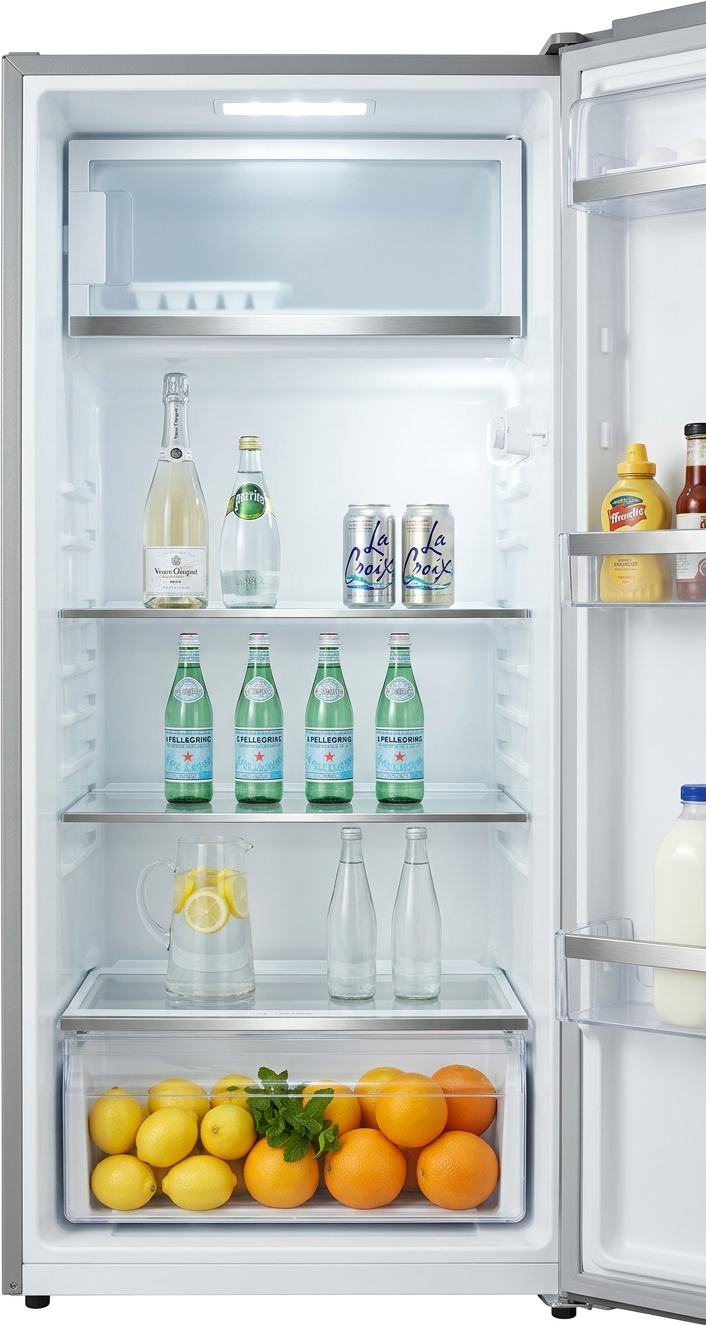
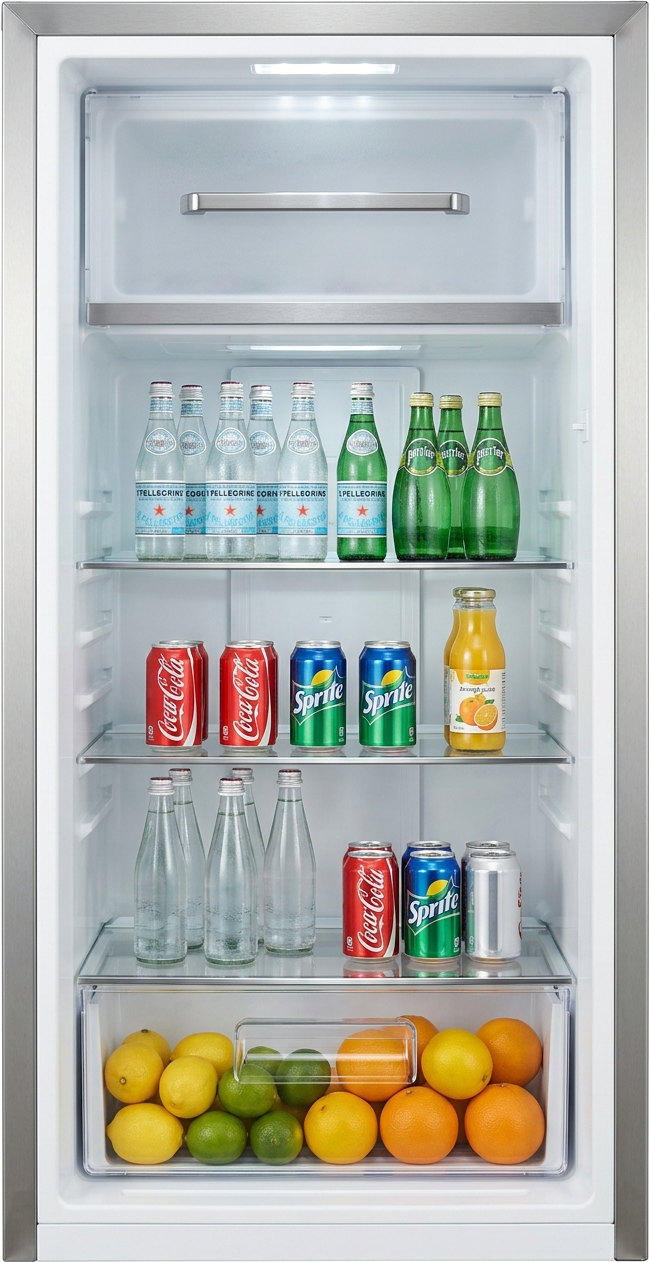
fix(fridge): generate brand new doorless interior cavity, crop door storage to inner face, add realistic dark steel side panels with chrome hinge, and eliminate open-door boundary cropping

diff --git a/src/components/fridge/UniversalSteelFridge.tsx b/src/components/fridge/UniversalSteelFridge.tsx
@@ -64,11 +64,11 @@ export const UniversalSteelFridge: React.FC<UniversalSteelFridgeProps> = ({
   }
 
   return (
-    <div className="w-full flex flex-col items-center select-none">
+    <div className="w-full flex flex-col items-center select-none overflow-visible">
       {/* 
         ========================================================================
         THE REFRIGERATOR 3D APPLIANCE STAGE
-        Completely isolated, photorealistic appliance with zero outer padding or capsules.
+        Isolated appliance with overflow-visible to guarantee the swinging door is never clipped.
         ========================================================================
       */}
       <div
@@ -79,12 +79,14 @@ export const UniversalSteelFridge: React.FC<UniversalSteelFridgeProps> = ({
           maxHeight: '780px',
           perspective: '1400px',
           transformStyle: 'preserve-3d',
+          overflow: 'visible',
         }}
-        className="relative mx-auto"
+        className="relative mx-auto overflow-visible"
       >
         {/* 
           3D Turntable Wrapper
-          Orbits smoothly around the Y-axis as controlled by the slider below
+          Orbits smoothly around the Y-axis as controlled by the slider below.
+          Shifts slightly right when the door opens to ensure the swinging door remains centered and uncropped.
         */}
         <div
           style={{
@@ -92,26 +94,45 @@ export const UniversalSteelFridge: React.FC<UniversalSteelFridgeProps> = ({
             height: '100%',
             position: 'relative',
             transformStyle: 'preserve-3d',
-            transform: `rotateY(${yaw}deg)`,
-            transition: 'transform 200ms cubic-bezier(0.2, 0.9, 0.3, 1)',
+            transform: `translateX(${isEffectiveOpen ? 30 : 0}px) rotateY(${yaw}deg)`,
+            transition: 'transform 500ms cubic-bezier(0.2, 0.9, 0.3, 1)',
+            overflow: 'visible',
           }}
         >
-          {/* 3D Left Cabinet Side Panel (revealed when rotating to the right) */}
+          {/* 3D Left Cabinet Side Panel (revealed when rotating to the right or opening door) */}
           <div
             style={{
               position: 'absolute',
               top: 0,
               bottom: 0,
               left: 0,
-              width: '70px',
+              width: '65px',
               transformOrigin: 'left center',
               transform: 'rotateY(-90deg)',
               backfaceVisibility: 'hidden',
               zIndex: 5,
             }}
-            className="rounded-l-lg border-l-2 border-slate-500 bg-gradient-to-r from-slate-700 via-slate-600 to-slate-500 shadow-2xl overflow-hidden pointer-events-none"
+            className="rounded-l-sm border-l border-slate-600 bg-gradient-to-r from-slate-800 via-slate-700 to-slate-800 shadow-2xl overflow-hidden pointer-events-none"
           >
-            <div className="absolute inset-0 bg-gradient-to-b from-white/10 via-transparent to-black/30 pointer-events-none" />
+            <div className="absolute inset-0 bg-gradient-to-b from-white/10 via-transparent to-black/40 pointer-events-none" />
+            <div className="absolute inset-0 bg-[linear-gradient(90deg,transparent_0%,rgba(255,255,255,0.05)_50%,transparent_100%)] pointer-events-none" />
+          </div>
+
+          {/* Top Heavy-Duty Chrome/Steel Hinge Bracket */}
+          <div
+            style={{
+              position: 'absolute',
+              top: '-5px',
+              left: '-2px',
+              width: '34px',
+              height: '11px',
+              transform: 'translateZ(10px)',
+              zIndex: 40,
+            }}
+            className="rounded-xs bg-gradient-to-r from-slate-700 via-slate-400 to-slate-700 border border-slate-400/80 shadow-md flex items-center justify-between px-1 pointer-events-none"
+          >
+            <div className="w-1.5 h-1.5 rounded-full bg-slate-900 shadow-inner" />
+            <div className="w-1.5 h-1.5 rounded-full bg-slate-400" />
           </div>
 
           {/* 3D Right Cabinet Side Panel (revealed when rotating to the left) */}
@@ -121,15 +142,15 @@ export const UniversalSteelFridge: React.FC<UniversalSteelFridgeProps> = ({
               top: 0,
               bottom: 0,
               right: 0,
-              width: '70px',
+              width: '65px',
               transformOrigin: 'right center',
               transform: 'rotateY(90deg)',
               backfaceVisibility: 'hidden',
               zIndex: 5,
             }}
-            className="rounded-r-lg border-r-2 border-slate-700 bg-gradient-to-l from-slate-800 via-slate-700 to-slate-600 shadow-2xl overflow-hidden pointer-events-none"
+            className="rounded-r-sm border-r border-slate-700 bg-gradient-to-l from-slate-900 via-slate-800 to-slate-700 shadow-2xl overflow-hidden pointer-events-none"
           >
-            <div className="absolute inset-0 bg-gradient-to-b from-white/10 via-transparent to-black/35 pointer-events-none" />
+            <div className="absolute inset-0 bg-gradient-to-b from-white/10 via-transparent to-black/45 pointer-events-none" />
           </div>
 
           {/* 3D Top Cabinet Roof */}
@@ -139,54 +160,47 @@ export const UniversalSteelFridge: React.FC<UniversalSteelFridgeProps> = ({
               top: 0,
               left: 0,
               right: 0,
-              height: '70px',
+              height: '65px',
               transformOrigin: 'center top',
               transform: 'rotateX(90deg)',
               backfaceVisibility: 'hidden',
               zIndex: 5,
             }}
-            className="rounded-t-lg border-t-2 border-slate-500 bg-gradient-to-b from-slate-600 via-slate-700 to-slate-800 shadow-inner overflow-hidden pointer-events-none"
+            className="rounded-t-sm border-t border-slate-600 bg-gradient-to-b from-slate-700 via-slate-800 to-slate-900 shadow-inner overflow-hidden pointer-events-none"
           />
 
           {/* 
             ========================================================================
             1. REFRIGERATOR INTERIOR CAVITY
-            Revealed inside the cabinet when the door swings open
+            Pure doorless symmetrical interior cavity photograph with tempered glass shelves,
+            chilled beverages, bottom citrus crisper drawer, and 5000K daylight LED.
             ========================================================================
           */}
           <div
             style={{
               position: 'absolute',
               inset: 0,
-              transform: 'translateZ(-10px)',
+              transform: 'translateZ(-6px)',
             }}
-            className="rounded-xl shadow-2xl overflow-hidden bg-slate-900 border border-slate-400"
+            className="rounded-lg shadow-2xl overflow-hidden bg-slate-900 border border-slate-500"
           >
-            {/* Photorealistic Interior Cavity Image */}
+            {/* Photorealistic Pure Cavity Image (No secondary doors!) */}
             <img
               src="/fridges/realistic-fridge-interior.png"
-              alt="Illuminated Refrigerator Interior"
-              className="absolute inset-0 w-full h-full object-cover pointer-events-none select-none rounded-xl"
+              alt="Illuminated Refrigerator Interior Cavity"
+              className="absolute inset-0 w-full h-full object-cover pointer-events-none select-none rounded-lg"
             />
 
-            {/* 
-              5000K DAYLIGHT LED INTERIOR LIGHTING
-              Turns ON when door opens, illuminates shelves and food items,
-              and turns OFF smoothly when door closes
-            */}
+            {/* 5000K Daylight LED Interior Lighting Engine */}
             <div
               className={`absolute inset-0 pointer-events-none transition-opacity duration-500 ease-in-out ${
                 isEffectiveOpen ? 'opacity-100' : 'opacity-0'
               }`}
             >
-              {/* Daylight Spotlight Beam */}
-              <div className="absolute top-0 inset-x-4 h-32 bg-gradient-to-b from-white/80 via-sky-100/25 to-transparent blur-xs pointer-events-none" />
-              
-              {/* Glass Shelf Specular Highlights */}
+              <div className="absolute top-0 inset-x-4 h-28 bg-gradient-to-b from-white/80 via-sky-100/20 to-transparent blur-xs pointer-events-none" />
               <div className="absolute top-[28%] inset-x-2 h-6 bg-gradient-to-b from-white/35 to-transparent pointer-events-none" />
               <div className="absolute top-[48%] inset-x-2 h-6 bg-gradient-to-b from-white/30 to-transparent pointer-events-none" />
-              
-              {/* Status Badge */}
+
               <div className="absolute top-3 left-3 px-2 py-0.5 rounded-md bg-slate-900/80 backdrop-blur-xs text-white border border-white/20 text-[8px] font-heading font-bold flex items-center gap-1 shadow-md">
                 <Lightbulb className="w-2.5 h-2.5 text-amber-300 fill-amber-300" />
                 <span>5000K LED ACTIVE</span>
@@ -206,7 +220,7 @@ export const UniversalSteelFridge: React.FC<UniversalSteelFridgeProps> = ({
               position: 'absolute',
               inset: 0,
               transformOrigin: 'left center',
-              transform: isEffectiveOpen ? 'rotateY(-85deg)' : 'rotateY(0deg)',
+              transform: isEffectiveOpen ? 'rotateY(-78deg)' : 'rotateY(0deg)',
               transition: 'transform 600ms cubic-bezier(0.25, 1, 0.4, 1)',
               transformStyle: 'preserve-3d',
               zIndex: 30,
@@ -224,7 +238,7 @@ export const UniversalSteelFridge: React.FC<UniversalSteelFridgeProps> = ({
                 transform: 'translateZ(8px)',
                 backfaceVisibility: 'hidden',
               }}
-              className="rounded-xl shadow-2xl overflow-hidden bg-slate-200 border border-slate-400 cursor-pointer"
+              className="rounded-lg shadow-2xl overflow-hidden bg-slate-200 border border-slate-400 cursor-pointer"
               onClick={handleToggle}
               title={isEffectiveOpen ? 'Click door to close' : 'Click door to open'}
             >
@@ -232,11 +246,11 @@ export const UniversalSteelFridge: React.FC<UniversalSteelFridgeProps> = ({
               <img
                 src="/fridges/premium-steel-door-closed.png"
                 alt="Stainless Steel Refrigerator Door"
-                className="absolute inset-0 w-full h-full object-cover pointer-events-none select-none rounded-xl"
+                className="absolute inset-0 w-full h-full object-cover pointer-events-none select-none rounded-lg"
               />
 
               {/* Ambient Specular Highlight Sheen */}
-              <div className="absolute inset-0 pointer-events-none rounded-xl bg-gradient-to-tr from-transparent via-white/10 to-transparent -translate-x-1/4 transform -skew-x-12" />
+              <div className="absolute inset-0 pointer-events-none rounded-lg bg-gradient-to-tr from-transparent via-white/10 to-transparent -translate-x-1/4 transform -skew-x-12" />
 
               {/* 
                 UNIFIED USABLE MAGNETIC SURFACE
@@ -262,7 +276,7 @@ export const UniversalSteelFridge: React.FC<UniversalSteelFridgeProps> = ({
                 className={`relative select-none ${
                   isEffectiveOpen ? 'pointer-events-none' : 'cursor-default'
                 } z-20 ${
-                  isDragOver ? 'ring-4 ring-blue-500/50 bg-blue-500/10 rounded-xl' : ''
+                  isDragOver ? 'ring-4 ring-blue-500/50 bg-blue-500/10 rounded-lg' : ''
                 }`}
               >
                 {children}
@@ -300,19 +314,19 @@ export const UniversalSteelFridge: React.FC<UniversalSteelFridgeProps> = ({
                 transform: 'rotateY(180deg) translateZ(8px)',
                 backfaceVisibility: 'hidden',
               }}
-              className="rounded-xl shadow-2xl overflow-hidden bg-white border border-slate-300 flex flex-col cursor-pointer"
+              className="rounded-lg shadow-2xl overflow-hidden bg-white border border-slate-300 flex flex-col cursor-pointer"
               onClick={handleToggle}
               title="Click anywhere to close refrigerator door"
             >
-              {/* Photorealistic Door-Side Storage Image */}
+              {/* Photorealistic Door-Side Storage Image (Cropped strictly to door face!) */}
               <img
                 src="/fridges/realistic-door-storage.png"
                 alt="Refrigerator Door-Side Storage Bins"
-                className="absolute inset-0 w-full h-full object-cover pointer-events-none select-none rounded-xl"
+                className="absolute inset-0 w-full h-full object-cover pointer-events-none select-none rounded-lg"
               />
 
               {/* Acrylic Gloss Reflection */}
-              <div className="absolute inset-0 pointer-events-none rounded-xl bg-gradient-to-tr from-transparent via-white/10 to-transparent -translate-x-1/4 transform -skew-x-12" />
+              <div className="absolute inset-0 pointer-events-none rounded-lg bg-gradient-to-tr from-transparent via-white/10 to-transparent -translate-x-1/4 transform -skew-x-12" />
 
               {/* Door Storage Header Badge & Close Affordance */}
               <div className="relative z-10 m-2.5 px-3 py-1 bg-slate-900/80 backdrop-blur-md rounded-lg text-white flex items-center justify-between border border-white/20 shadow-md">
@@ -335,7 +349,7 @@ export const UniversalSteelFridge: React.FC<UniversalSteelFridgeProps> = ({
       {/* 
         ========================================================================
         3D ROTATION SLIDER & CONTROLS DIRECTLY BELOW THE FRIDGE
-        Requested by user: Smooth horizontal slider to rotate and inspect the fridge
+        Smooth horizontal slider to rotate and inspect the fridge from any angle
         ========================================================================
       */}
       <div className="w-full max-w-[360px] mt-4 px-4 py-3 bg-white/95 rounded-2xl border border-slate-200/90 shadow-sm flex flex-col gap-2.5">

diff --git a/src/components/fridge/FridgeWorkspace.tsx b/src/components/fridge/FridgeWorkspace.tsx
@@ -426,7 +426,9 @@ export const FridgeWorkspace: React.FC<FridgeWorkspaceProps> = ({
         Allows smooth magnification of the fridge so magnets can be viewed in large detail!
       */}
       <div
-        className={`relative w-full flex flex-col items-center justify-center overflow-hidden rounded-3xl p-1 sm:p-2 ${
+        className={`relative w-full flex flex-col items-center justify-center ${
+          zoomLevel > 1.0 ? 'overflow-hidden' : 'overflow-visible'
+        } rounded-3xl p-2 sm:p-4 ${
           zoomLevel > 1.0 ? (isPanning ? 'cursor-grabbing' : 'cursor-grab') : ''
         }`}
         onMouseDown={handlePanMouseDown}
@@ -449,7 +451,7 @@ export const FridgeWorkspace: React.FC<FridgeWorkspaceProps> = ({
             transformOrigin: 'center center',
             transition: isPanning ? 'none' : 'transform 200ms cubic-bezier(0.2, 0.9, 0.3, 1)',
           }}
-          className="relative w-full max-w-[360px]"
+          className="relative w-full max-w-[360px] overflow-visible"
         >
           {/* Check whether active model is the Universal 3D Studio model or another catalog model */}
           {activeModel.id === 'universal-steel-studio' ? (

diff --git a/src/pages/MyFridgePage.tsx b/src/pages/MyFridgePage.tsx
@@ -412,7 +412,7 @@ export const MyFridgePage: React.FC = () => {
         LEFT & CENTER STAGE:
         Clean, Focused Refrigerator Stage (Appliance Only)
       */}
-      <div className="flex-1 w-full flex items-center justify-center relative min-h-[660px] lg:min-h-[760px] rounded-3xl p-4 sm:p-6 overflow-hidden bg-white border border-slate-200/90 shadow-sm">
+      <div className="flex-1 w-full flex items-center justify-center relative min-h-[760px] rounded-3xl p-4 sm:p-8 lg:p-10 overflow-visible bg-white border border-slate-200/90 shadow-sm">
         {/* Center: The Photorealistic Refrigerator */}
         <div className="relative z-10 w-full flex flex-col items-center">
           <FridgeWorkspace
